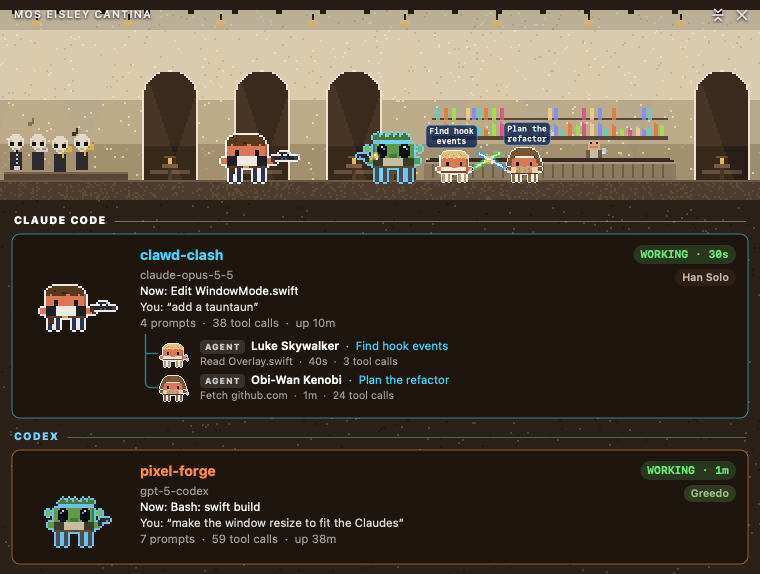
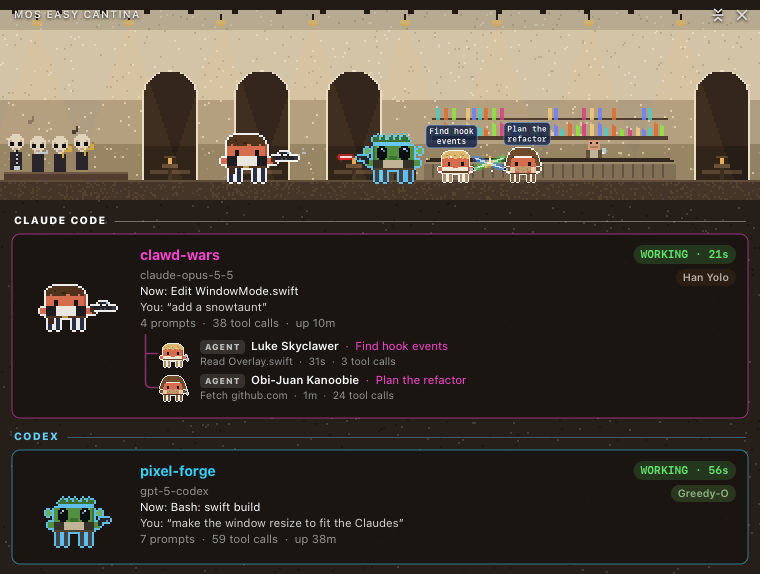
docs: re-render every picture with the parody names
The roster, places, desktop strip, hover card, screen saver, social
preview and both window shots come fresh from Clawd Clash, so every
name drawn in them is the parody one (Darth Vapor, Han Yolo, the Mos
Easy Cantina, the Battle of Froth). The Falcon strip's name tag and
captions are redrawn to match. window-hoth.png is now window-froth.png.
The shoot-out strip and the icon have no names in them and stay.

diff --git a/README.md b/README.md
@@ -24,7 +24,7 @@ https://github.com/user-attachments/assets/84cbea65-6fb8-452a-b4d6-811c69c301cc
 > **Clawd Wars is now part of [Clawd Clash](https://github.com/rodclemen/clawd-clash).** Same crew, same fights, now with two more universes to switch to. This page shows off the Star Claws universe; see [Get it](#get-it) to install.
 
 <p align="center">
-  <img src="docs/desktop.png" alt="Three Claudes and eight agents fighting across the bottom of the screen">
+  <img src="docs/desktop.png" alt="Three Claudes and seven agents fighting across the bottom of the screen: Boba Feta, Obi-Juan Kanoobie and Darth Vapor leading">
 </p>
 
 ---
@@ -108,7 +108,7 @@ Clawd Wars opens in a window by default (switch to the desktop from the menu). T
 The scene is set **where the first session's character belongs**: the Doom Moon for Darth Vapor, the Great Pit of Snarkoon for Boba Feta, Jabbo's Palace, the Battle of Froth for the AT-ACK (with more of them marching on the horizon):
 
 <p align="center">
-  <img src="docs/window-hoth.png" alt="Window mode at the Battle of Froth" width="760">
+  <img src="docs/window-froth.png" alt="Window mode at the Battle of Froth" width="760">
 </p>
 
 22 hand-built places, each with its own little animation: the band plays in the Mos Easy Cantina while the bartender polishes glasses; Princess Laya's hologram flickers in Obi-Juan's Hut; Clawas' eyes glow over heaps of junk in the Clawa Sandcrawler; fog drifts over Dagobog; the Millennial Falcon jumps to hyperspace past its cockpit window; a Star Wrecker lies buried in the sand of Jakkuzzi; Furwok lanterns flicker on the Forest Moon of Ender; and Jabbo's court peers down into the Rancor Pit.
